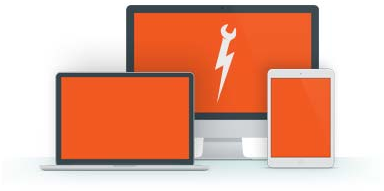
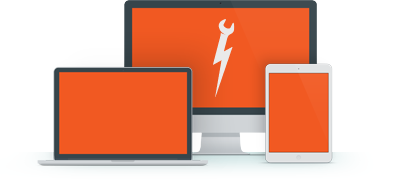
Implemented Pricing page images and adjusted spacing in header

Changed region(s): [[0.0938, 0.0, 0.9062, 0.929]]

diff --git a/app/pricing.html b/app/pricing.html
@@ -46,6 +46,7 @@
                                 <li class="active"><a href="#">PRICING</a></li>
                                 <li><a href="about.html">ABOUT</a></li>
                                 <li><a href="#">NEWS</a></li>
+                                <li><a href="#">LOGIN</a></li>
                             </ul>
                         </div><!-- /.navbar-collapse -->
                     </div><!-- /.container-fluid -->
@@ -53,33 +54,26 @@
             </div>
             <div class="container">
                 <div class="row">
-                    <div class="col-xs-12 col-md-6 header-left-col">
-                        <div class="logo"><a href="index.html"><img src="images/shop-ware-logo.png" width="201" height="95"></a></div>
-                        <div class="header-copy">
-                            <h2 class="header-heading">Subscribe to Shop-Ware</h2>
-                            <h4 class="header-subheading">Your truck in the cloud, only cheaper</h4>
-                        </div>
+                    <div class="col-xs-12 col-md-6">
+                        <div class="logo"><a href="index.html"><img src="images/shop-ware-logo-sm.png" width="220" height="101"></a></div>
+                        <h2 class="header-heading">Subscribe to Shop-Ware</h2>
+                        <h4 class="header-subheading">Your truck in the cloud, only cheaper</h4>
                     </div>
-                    <div class="col-xs-12 col-md-6 header-right-col">&nbsp;</div>
+                    <div class="col-xs-12 col-md-6">&nbsp;</div>
                 </div>
             </div>
         </div>
         <div class="container-fluid header-bottom">
             <div class="container">
                 <div class="row">
-                    <div class="col-xs-12 col-sm-5 col-md-5 header-left-col">
+                    <div class="col-xs-12 col-sm-5 col-md-5">
                         <div class="sign-up-copy">
                             <p>Try it free for 30 days! No credit card required.</p>
-                            <form class="form-inline" role="form">
-                                <input type="text" class="form-control input-email" placeholder="Enter Your Email Address">
-                                <button type="button" class="btn btn-primary">Get Started</button>
-                            </form>
+                            <button type="button" class="btn btn-primary sign-up-button"><h3>Get Started</h3></button>
                         </div>
                     </div>
-                    <div class="col-xs-12 col-sm-7 col-md-7 header-right-col">
-                        <div class="header-copy">
-                            <h2>No surprises.<br>Try it before you buy it.</h2>
-                        </div>
+                    <div class="col-xs-12 col-sm-7 col-md-7">
+                        <h2 class="header-copy">No surprises.<br>Try it before you buy it.</h2>
                     </div>
                 </div>
             </div>
@@ -96,7 +90,7 @@
                     </div>
                     <div class="col-xs-12 col-sm-7 col-md-7">
                         <div class="pricing-header-copy">
-                            <span class="price-heading">$40</span><span class="price-heading-small">/month</span>
+                            <span class="price-heading">$39</span><span class="price-heading-small">/month</span>
                             <p class="price-subheading">Easy automatic monthly payments. Cancel anytime.</p>
                         </div>
                     </div>
@@ -104,7 +98,7 @@
             </div>
         </div>
         <div class="container pricing-intro">
-            <h1 class="pricing-intro-heading">All Shop-Ware Plans Include</h1>
+            <h1 class="pricing-intro-heading">Get these tools to make your job easier</h1>
             <p>Have a question? Just <a href="mailto:support@shop-ware.com">ask us</a>.</p>
         </div>
         <div class="container pricing-content-top">
@@ -113,23 +107,23 @@
                     <div class="col-xs-12 col-sm-5 col-md-5">
                         <h3>Unlimited:</h3>
                         <ul class="ul-unstyled ul-unlimited">
-                            <li><div class="arrow-bullet"><img src="images/arrow-bullet.png"></div>Jobs</li>
-                            <li><div class="arrow-bullet"><img src="images/arrow-bullet.png"></div>Checklists</li>
-                            <li><div class="arrow-bullet"><img src="images/arrow-bullet.png"></div>Customers</li>
-                            <li><div class="arrow-bullet"><img src="images/arrow-bullet.png"></div>Vehicles</li>
-                            <li><div class="arrow-bullet"><img src="images/arrow-bullet.png"></div>VIN Decodes</li>
-                            <li><div class="arrow-bullet"><img src="images/arrow-bullet.png"></div>Uploads</li>
-                            <li><div class="arrow-bullet"><img src="images/arrow-bullet.png"></div>Access Points</li>
-                            <li><div class="arrow-bullet"><img src="images/arrow-bullet.png"></div>Devices</li>
+                            <li><div class="arrow-bullet"><img src="images/check-bullet-icon.png"></div>Jobs</li>
+                            <li><div class="arrow-bullet"><img src="images/check-bullet-icon.png"></div>VIN Decodes</li>
+                            <li><div class="arrow-bullet"><img src="images/check-bullet-icon.png"></div>Checklists</li>
+                            <li><div class="arrow-bullet"><img src="images/check-bullet-icon.png"></div>Uploads</li>
+                            <li><div class="arrow-bullet"><img src="images/check-bullet-icon.png"></div>Customers</li>
+                            <li><div class="arrow-bullet"><img src="images/check-bullet-icon.png"></div>Access Points</li>
+                            <li><div class="arrow-bullet"><img src="images/check-bullet-icon.png"></div>Vehicles</li>
+                            <li><div class="arrow-bullet"><img src="images/check-bullet-icon.png"></div>Devices</li>
                         </ul>
                     </div>
                     <div class="col-xs-12 col-sm-7 col-md-7">
-                        <h3>Prime Features:</h3>
+                        <h3>Bonus Features:</h3>
                         <ul class="ul-unstyled ul-features">
-                            <li><div class="arrow-bullet"><img src="images/arrow-bullet.png"></div>decode VINs on up to 37 vehicle attributes</li>
-                            <li><div class="arrow-bullet"><img src="images/arrow-bullet.png"></div>track job history in the job log</li>
-                            <li><div class="arrow-bullet"><img src="images/arrow-bullet.png"></div>preview jobs as they appear to the customer</li>
-                            <li class="li-no-border"><div class="arrow-bullet"><img src="images/arrow-bullet.png"></div>generate PDFs of jobs, to pring/save or use separately</li>
+                            <li><div class="arrow-bullet"><img src="images/feature-icon-wrench.png"></div>decode VINs on up to 37 vehicle attributes</li>
+                            <li><div class="arrow-bullet"><img src="images/feature-icon-job.png"></div>track job history in the job log</li>
+                            <li><div class="arrow-bullet"><img src="images/feature-icon-preview.png"></div>preview jobs as they appear to the customer</li>
+                            <li class="li-no-border"><div class="arrow-bullet"><img src="images/feature-icon-pdf.png"></div>generate PDFs of jobs, to pring/save or use separately</li>
                         </ul>
                     </div>
                 </div>
@@ -140,14 +134,15 @@
                     <div class="col-xs-12 col-sm-5 col-md-5">
                         <h3>Universal, cloud-based technology:</h3>
                         <ul class="ul-unstyled ul-cloud">
-                            <li><div class="arrow-bullet"><img src="images/arrow-bullet.png"></div>computer, tablet, or smartphone</li>
-                            <li><div class="arrow-bullet"><img src="images/arrow-bullet.png"></div>use any operating system</li>
-                            <li><div class="arrow-bullet"><img src="images/arrow-bullet.png"></div>as convenient for customers as it is for you</li>
+                            <li><div class="arrow-bullet"><img src="images/arrow-bullet-icon.png"></div>computer, tablet, or smartphone</li>
+                            <li><div class="arrow-bullet"><img src="images/arrow-bullet-icon.png"></div>use any operating system</li>
+                            <li><div class="arrow-bullet"><img src="images/arrow-bullet-icon.png"></div>as convenient for customers as it is for you</li>
+                            <li><div class="arrow-bullet"><img src="images/arrow-bullet-icon.png"></div>no paper required</li>
                         </ul>
                     </div>
                     <div class="col-xs-12 col-sm-7 col-md-7">
                         <div class="cloud-screens">
-                            <img src="images/cloud-screens.png" width="384" height="191">
+                            <img src="images/cloud-screens.png" width="410" height="183">
                         </div>
                     </div>
                 </div>

diff --git a/app/about.html b/app/about.html
@@ -46,6 +46,7 @@
                                 <li><a href="pricing.html">PRICING</a></li>
                                 <li class="active"><a href="#">ABOUT</a></li>
                                 <li><a href="#">NEWS</a></li>
+                                <li><a href="#">LOGIN</a></li>
                             </ul>
                         </div><!-- /.navbar-collapse -->
                     </div><!-- /.container-fluid -->
@@ -53,17 +54,17 @@
             </div>
             <div class="container">
                 <div class="row">
-                    <div class="col-xs-12 col-md-6 header-left-col">
-                        <div class="logo"><a href="index.html"><img src="images/shop-ware-logo.png" width="201" height="95"></a></div>
-                        <div class="header-copy">
-                            <h2 class="header-heading">About Shop-Ware</h2>
-                            <h4 class="header-subheading">Made by people who know auto repair</h4>
-                        </div>
+                    <div class="col-xs-12 col-md-6">
+                        <div class="logo"><a href="index.html"><img src="images/shop-ware-logo-sm.png" width="220" height="101"></a></div>
+                        <h2 class="header-heading">Subscribe to Shop-Ware</h2>
+                        <h4 class="header-subheading">Your truck in the cloud, only cheaper</h4>
                     </div>
-                    <div class="col-xs-12 col-md-6 header-right-col">&nbsp;</div>
+                    <div class="col-xs-12 col-md-6">&nbsp;</div>
                 </div>
             </div>
         </div>
+
+
         <div class="container main-content">&nbsp;</div>
         <div class="container-fluid footer">
             <div class="container">

diff --git a/app/styles/header.scss b/app/styles/header.scss
@@ -4,6 +4,13 @@
 .navbar-default {
     background: none;
     border: none;
+    margin-bottom: 0;
+
+    .navbar-nav {
+        li {
+            font-size: 12px;
+        }
+    }
 
     .navbar-nav > .active > a:link,
     .navbar-nav > .active > a:visited,
@@ -45,43 +52,36 @@
 .header-top {
     background: #283339 url('../images/header-background.jpg') no-repeat top center;
     color: #fff;
+    padding-bottom: 40px;
 
-    .header-left-col {
-        .logo { }
-
-        .header-copy {
-            padding-top: 10px;
-            padding-bottom: 30px;
-
-            .header-body-copy {
-                margin-right: 20px;
-            }
-
-            .header-heading {
-                margin-bottom: 0px;
-            }
-
-            .header-subheading {
-                margin-top: 0px;
-            }
-        }
+    .header-body-copy {
+        margin-right: 20px;
     }
 
-    .header-right-col { }
+    .header-heading {
+        margin-top: 33px;
+    }
+
+    .header-subheading {
+        margin-top: 2px;
+    }
 }
 
 .header-bottom {
     background: #f25822;
     color: #fff;
+    padding-bottom: 40px;
 
-    .header-left-col {
-        .sign-up-copy {
-            padding-top: 30px;
-            padding-bottom: 30px;
+    .sign-up-copy {
+        padding-top: 33px;
 
-            .input-email {
-                width: 300px;
-            }
+        .sign-up-button {
+            width: 345px;
+            height: 40px;
         }
+    }
+
+    .header-copy {
+        padding-top: 40px;
     }
 }

diff --git a/app/styles/global.scss b/app/styles/global.scss
@@ -10,10 +10,37 @@ a:active {
     color: #4b8aa6;
 }
 
+h1,
+h2,
+h3,
+h4,
+h5,
+h6 {
+	margin-top: 0;
+	margin-bottom: 0;
+}
+
 .ul-unstyled {
 	padding-left: 0;
 	list-style: none;
 	clear: both;
+}
+
+.btn-primary {
+	background-color: hsl(200, 66%, 26%) !important;
+	background-repeat: repeat-x;
+	filter: progid:DXImageTransform.Microsoft.gradient(startColorstr="#2791c2", endColorstr="#16526e");
+	background-image: -khtml-gradient(linear, left top, left bottom, from(#2791c2), to(#16526e));
+	background-image: -moz-linear-gradient(top, #2791c2, #16526e);
+	background-image: -ms-linear-gradient(top, #2791c2, #16526e);
+	background-image: -webkit-gradient(linear, left top, left bottom, color-stop(0%, #2791c2), color-stop(100%, #16526e));
+	background-image: -webkit-linear-gradient(top, #2791c2, #16526e);
+	background-image: -o-linear-gradient(top, #2791c2, #16526e);
+	background-image: linear-gradient(#2791c2, #16526e);
+	border: none;
+	color: #fff !important;
+	text-shadow: 0 -1px 0 rgba(0, 0, 0, 0.33);
+	-webkit-font-smoothing: antialiased;
 }
 
 .browsehappy {

diff --git a/app/styles/pricing.scss b/app/styles/pricing.scss
@@ -5,14 +5,14 @@
     background: #d5e9e8;
     color: #283339;
     border-top: 2px solid #fff;
+    padding-bottom: 57px;
 
     .header-copy {
-        padding-top: 50px;
+        padding-top: 75px;
     }
 
     .pricing-header-copy {
-    	padding-top: 50px;
-        padding-bottom: 50px;
+    	padding-top: 53px;
 
         .price-heading {
         	font-size: 64px;
@@ -38,7 +38,7 @@
 }
 
 .pricing-content-top {
-	padding-top: 50px;
+	padding-top: 40px;
 
 	.arrow-bullet {
 		float: left;
@@ -46,17 +46,23 @@
 	}
 
 	.ul-unlimited {
+		width: 380px;
+		padding-top: 40px;
+
 		li {
 			float: left;
 			width: 50%;
+			padding-top: 15px;
 		}
 	}
 
 	.ul-features {
 		width: 525px;
+		padding-top: 40px;
 
 		li {
 			float: left;
+			width: 100%;
 			padding-top: 15px;
 			padding-bottom: 15px;
 			border-bottom: 2px solid #d5e9e8;
@@ -82,6 +88,7 @@
 
 		li {
 			float: left;
+			width: 100%;
 			padding-top: 15px;
 		}
 	}
